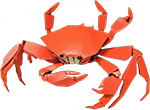
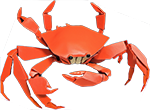
Improve enemy death animation and player breathing
- Remove obsolete color generation system from Enemy class
- Implement proper sprite-based death effect with darkening and fade
- Change player breathing transform origin to bottom center for grounded effect
- Update crab sprite asset
- Player now breathes upward while feet stay planted

🤖 Generated with [Claude Code](https://claude.ai/code)

diff --git a/src/game/Enemy.ts b/src/game/Enemy.ts
@@ -13,13 +13,11 @@ export class Enemy {
     public moveSpeed: number = BASE_MOVE_SPEED * 0.8 // Enemies are slightly slower than player
     public health: number = 3
     public maxHealth: number = 15
-    private color: string
     private dying: boolean = false
     private deathTimer: number = 0
     private deathDuration: number = 400 // 500ms death animation
     private originalWidth: number = 45
     private originalHeight: number = 37.5
-    private originalColor: string
     private sprite: HTMLImageElement
     private previousX: number
     private facingRight: boolean = true
@@ -34,8 +32,6 @@ export class Enemy {
         this.x = x
         this.y = y
         this.previousX = x
-        this.color = this.generateRandomRedColor()
-        this.originalColor = this.color
         this.originalWidth = this.width
         this.originalHeight = this.height
         
@@ -44,16 +40,6 @@ export class Enemy {
         this.sprite.src = '/enemies/nu-crab.png'
     }
 
-    private generateRandomRedColor(): string {
-        const hueVariation = Math.random() * 60 - 30
-        const baseHue = 0 + hueVariation
-        const normalizedHue = ((baseHue % 360) + 360) % 360
-
-        const saturation = 80 + Math.random() * 20
-        const lightness = 40 + Math.random() * 20
-
-        return `hsla(${normalizedHue}, ${saturation}%, ${lightness}%, 0.85)`
-    }
 
     // Update enemy behavior 
     update(deltaTime: number, player: Player): void {
@@ -73,12 +59,7 @@ export class Enemy {
             this.width = this.originalWidth * (1 - progress)
             this.height = this.originalHeight * (1 - progress)
 
-            // Fade to black
-            const colorProgress = Math.min(1, progress)
-            const r = Math.floor(255 - 0 * colorProgress) // Red component to black
-            const g = Math.floor(0 * colorProgress)   // Green stays 0
-            const b = Math.floor(0 * colorProgress)   // Blue stays 0
-            this.color = `rgb(${r},${g},${b})`
+            // Death visual effects will be handled in render method
 
             return // Don't do normal updates while dying
         }
@@ -129,7 +110,25 @@ export class Enemy {
         // Draw crab sprite with scaled dimensions
         const spriteX = this.x - scaledWidth / 2
         const spriteY = this.y - scaledHeight / 2
+        
+        const ctx = renderer.context
+        ctx.save()
+        
+        if (this.dying) {
+            // Apply death effect - darken and fade the sprite silhouette
+            const progress = this.deathTimer / this.deathDuration
+            
+            // Fade out using native canvas transparency
+            const opacity = Math.max(0, 1 - progress * 1.1)
+            ctx.globalAlpha = opacity
+            
+            // Darken to black using CSS filter
+            const brightness = Math.max(0, 1 - progress * 1.2)
+            ctx.filter = `brightness(${brightness})`
+        }
+        
         renderer.drawImage(this.sprite, spriteX, spriteY, scaledWidth, scaledHeight, !this.facingRight)
+        ctx.restore()
 
         // Debug: Draw cyan hitbox outline (using original dimensions)
         if (debug.showBounds) {

diff --git a/src/game/Player.ts b/src/game/Player.ts
@@ -240,19 +240,22 @@ export class Player {
         }
 
         // Render body parts with unified breathing animation
-        const amplitude = this.isMoving ? 0.15 : 0.08 // ±15% moving, ±8% static
-        const period = this.isMoving ? 350 : 500 // 350ms moving, 500ms static
+        const amplitude = this.isMoving ? 0.09 : 0.075 // ±9% moving, ±7.5% static
+        const period = this.isMoving ? 550 : 1000 // 550ms moving, 1000ms static
         const timeInRadians = (this.animationTime / period) * 2 * Math.PI
         const sineValue = Math.sin(timeInRadians + this.animationOffset)
         const widthScale = 1 + (sineValue * amplitude)
         const heightScale = 1 - (sineValue * amplitude)
 
-        // Apply breathing transform to entire character
+        // Apply breathing transform to entire character (scale from bottom)
         const ctx = renderer.context
         ctx.save()
-        ctx.translate(this.x, this.y)
+        
+        // Transform origin at bottom center of player for grounded breathing
+        const bottomY = this.y + this.height / 2
+        ctx.translate(this.x, bottomY)
         ctx.scale(widthScale, heightScale)
-        ctx.translate(-this.x, -this.y)
+        ctx.translate(-this.x, -bottomY)
 
         // Render body parts in draw order
         const sortedBodyParts = this.body
